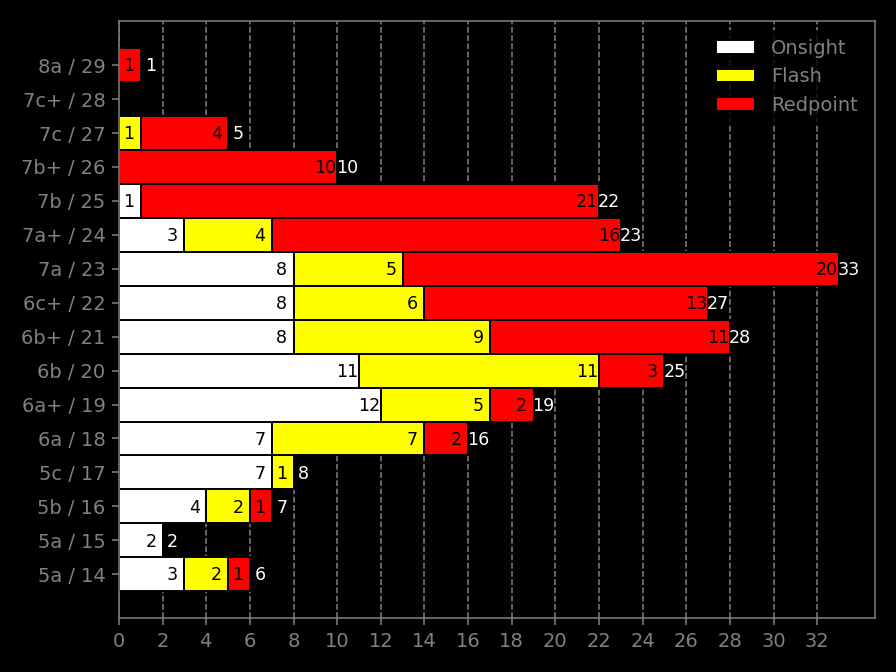
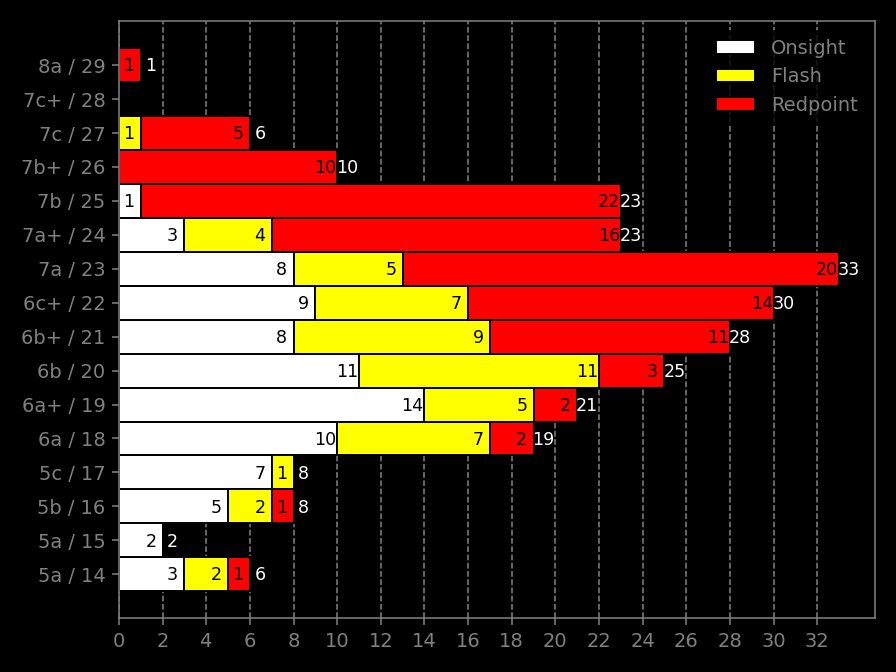
update

diff --git a/log.html b/log.html
@@ -22,19 +22,30 @@
 <h2>Log of sends</h2>
 <table class="sortable">
 <tr><th style="width:5%">date</th><th>crag</th><th>route</th><th style="width:5%">grade</th><th>type</th><th>comment</th></tr>
+<tr><td>06.02.24</td><td>Brummy Crag</td><td>Concentration Campus Sport</td><td>22 -</td><td style='color: white; font-weight: bold;'>o</td><td></td></tr>
+<tr><td>06.02.24</td><td>Brummy Crag</td><td>The Dirty Browny</td><td>19 -</td><td style='color: white; font-weight: bold;'>o</td><td></td></tr>
+<tr><td>06.02.24</td><td>Brummy Crag</td><td>Fist It</td><td>18 -</td><td style='color: white; font-weight: bold;'>o</td><td></td></tr>
+<tr><td>06.02.24</td><td>Brummy Crag</td><td>Eash off Spam</td><td>16 -</td><td style='color: white; font-weight: bold;'>o</td><td></td></tr>
+<tr><td>06.02.24</td><td>Brummy Crag</td><td>Matts Route</td><td>18 -</td><td style='color: white; font-weight: bold;'>o</td><td></td></tr>
+<tr><td>06.02.24</td><td>Al Cove</td><td>The Colonel's Secret</td><td>22 -</td><td style='color: yellow; font-weight: bold;'>f</td><td>Not logged, can't remember if I flashed or onsighted.</td></tr>
+<tr><td>06.02.24</td><td>Al Cove</td><td>Chinese Hospitality</td><td>19 -</td><td style='color: white; font-weight: bold;'>o</td><td></td></tr>
+<tr><td>06.02.24</td><td>Al Cove</td><td>Feral Fodder</td><td>18 -</td><td style='color: white; font-weight: bold;'>o</td><td>Not logged, but had done.</td></tr>
+<tr><td>06.02.24</td><td>Al Cove</td><td>Feroucious Weasel</td><td>22 -</td><td style='color: red; font-weight: bold;'>r</td><td>Not logged, but had done.</td></tr>
+<tr><td>06.02.24</td><td>Al Cove</td><td>Bob the builder</td><td>25 -</td><td style='color: red; font-weight: bold;'>r</td><td>Hard for grade maybe? Was a hard send at least. Crimpy.</td></tr>
+<tr><td>03.02.24</td><td>Al Cap</td><td>Righteous</td><td>27 -</td><td style='color: red; font-weight: bold;'>r</td><td>A lot of tries, maybe 10-15? Got is and it didn't feel too bad in the end. Key was to learn a foot sequence for the lay back section.</td></tr>
 <tr><td>17.01.24</td><td>Pencil Dick</td><td>Reach for the Purple Love Truncheon</td><td>26 -</td><td style='color: red; font-weight: bold;'>r</td><td>Two goes, felt super easy.</td></tr>
-<tr><td>13.01.24</td><td>Pencil Dick</td><td>Take No Prisoners</td><td>22 -</td><td style='color: red; font-weight: bold;'>r</td><td>Two goes, thought it was very hard, then did it easily on second go.</td></tr>
-<tr><td>13.01.24</td><td>Pencil Dick</td><td>Grazon Against Wooly Wullens</td><td>25 -</td><td style='color: red; font-weight: bold;'>r</td><td>Two goes, easy but a hard crux with bad feet.</td></tr>
-<tr><td>13.01.24</td><td>Pencil Dick</td><td>My Little One</td><td>24 -</td><td style='color: white; font-weight: bold;'>o</td><td>Was very happy with this one, felt kind of easy for the grade, but fun.</td></tr>
 <tr><td>13.01.24</td><td>Pencil Dick</td><td>Stick It In</td><td>20 -</td><td style='color: yellow; font-weight: bold;'>f</td><td>Kind of hard little crux up near the top. God jamming training.</td></tr>
-<tr><td>13.01.24</td><td>Pencil Dick</td><td>Botox Viagra</td><td>21 -</td><td style='color: yellow; font-weight: bold;'>f</td><td>Super nice long route.</td></tr>
 <tr><td>13.01.24</td><td>Pencil Dick</td><td>Drop In, Drop Out</td><td>18 -</td><td style='color: yellow; font-weight: bold;'>f</td><td></td></tr>
+<tr><td>13.01.24</td><td>Pencil Dick</td><td>Botox Viagra</td><td>21 -</td><td style='color: yellow; font-weight: bold;'>f</td><td>Super nice long route.</td></tr>
+<tr><td>13.01.24</td><td>Pencil Dick</td><td>My Little One</td><td>24 -</td><td style='color: white; font-weight: bold;'>o</td><td>Was very happy with this one, felt kind of easy for the grade, but fun.</td></tr>
+<tr><td>13.01.24</td><td>Pencil Dick</td><td>Grazon Against Wooly Wullens</td><td>25 -</td><td style='color: red; font-weight: bold;'>r</td><td>Two goes, easy but a hard crux with bad feet.</td></tr>
+<tr><td>13.01.24</td><td>Pencil Dick</td><td>Take No Prisoners</td><td>22 -</td><td style='color: red; font-weight: bold;'>r</td><td>Two goes, thought it was very hard, then did it easily on second go.</td></tr>
 <tr><td>08.01.24</td><td>Firewood Creek</td><td>Pyromaniac</td><td>24 -</td><td style='color: yellow; font-weight: bold;'>f</td><td>No hands knee-bar helped before crux. very chossy. 2nd ascent.</td></tr>
 <tr><td>08.01.24</td><td>Firewood Creek</td><td>Spontaneous combustion</td><td>23 -</td><td style='color: white; font-weight: bold;'>o</td><td>really nice semi trustworthy face climbing</td></tr>
 <tr><td>08.01.24</td><td>Firewood Creek</td><td>Pyromania</td><td>24 -</td><td style='color: yellow; font-weight: bold;'>f</td><td>No hands knee-bar helped before crux. very chossy. 2nd ascent.</td></tr>
 <tr><td>04.01.24</td><td>White Wall</td><td>whiteous</td><td>25 -</td><td style='color: red; font-weight: bold;'>r</td><td>Didn't like the route at all. Had a weird hand jam. Hrad for grade also maybe?</td></tr>
-<tr><td>02.01.24</td><td>Mt Iron</td><td>A sharp prick</td><td>24 -</td><td style='color: red; font-weight: bold;'>r</td><td>Two goes</td></tr>
 <tr><td>02.01.24</td><td>Mt Iron</td><td>Steelworks</td><td>23 -</td><td style='color: red; font-weight: bold;'>r</td><td>Tried once years ago I think. Two goes.</td></tr>
+<tr><td>02.01.24</td><td>Mt Iron</td><td>A sharp prick</td><td>24 -</td><td style='color: red; font-weight: bold;'>r</td><td>Two goes</td></tr>
 <tr><td>31.12.23</td><td>The Office</td><td>The 3-Hour Woman</td><td>26 -</td><td style='color: red; font-weight: bold;'>r</td><td>Maybe 7/8 goes over three days. Very hard on skin. Eventually went more 'direct' at the traverse.</td></tr>
 <tr><td>30.12.23</td><td>White Wall</td><td>Peking Man</td><td>27 -</td><td style='color: red; font-weight: bold;'>r</td><td>4 goes, climbed poorly through a lot of pump.</td></tr>
 <tr><td>21.12.23</td><td>Bannockburn</td><td>Flash in the Pan</td><td>21 -</td><td style='color: yellow; font-weight: bold;'>f</td><td>Nice rock, but not that great climbing.</td></tr>
@@ -49,33 +60,33 @@
 <tr><td>01.12.23</td><td>Boat Ramp</td><td>Unnamed</td><td>11 -</td><td style='color: white; font-weight: bold;'>o</td><td>Seemed like a 16 or so for the first 2m.</td></tr>
 <tr><td>06.11.23</td><td>Wye Creek</td><td>Eat Yourself Fitter</td><td>25 -</td><td style='color: red; font-weight: bold;'>r</td><td>3 goes. You can get tired on this, but not in the fingers.</td></tr>
 <tr><td>01.11.23</td><td>Bannockburn</td><td>JAM</td><td>21 -</td><td style='color: red; font-weight: bold;'>r</td><td>Messed around the crux bit on first go, and broke a foothold.</td></tr>
-<tr><td>28.10.23</td><td>Mt Iron</td><td>The Prickly Lawyer</td><td>20 -</td><td style='color: white; font-weight: bold;'>o</td><td></td></tr>
 <tr><td>28.10.23</td><td>Mt Iron</td><td>Bush Lawyer</td><td>22 -</td><td style='color: yellow; font-weight: bold;'>f</td><td></td></tr>
+<tr><td>28.10.23</td><td>Mt Iron</td><td>The Prickly Lawyer</td><td>20 -</td><td style='color: white; font-weight: bold;'>o</td><td></td></tr>
 <tr><td>25.10.23</td><td>Bannockburn</td><td>Pick and mix</td><td>18 -</td><td style='color: white; font-weight: bold;'>o</td><td>Weird line, I found a harder way through the mantle...</td></tr>
+<tr><td>08.10.23</td><td>Mt Iron</td><td>Sonique</td><td>20 -</td><td style='color: yellow; font-weight: bold;'>f</td><td>Was raining on the slab at the top, lucky it was easy.</td></tr>
 <tr><td>08.10.23</td><td>Mt Iron</td><td>Pitchin and Moaning</td><td>19 -</td><td style='color: white; font-weight: bold;'>o</td><td></td></tr>
 <tr><td>08.10.23</td><td>Mt Iron</td><td>Solid Energy</td><td>24 -</td><td style='color: red; font-weight: bold;'>r</td><td>Two goes. Hard last three or four moves, rather easy to that point.</td></tr>
-<tr><td>08.10.23</td><td>Mt Iron</td><td>Sonique</td><td>20 -</td><td style='color: yellow; font-weight: bold;'>f</td><td>Was raining on the slab at the top, lucky it was easy.</td></tr>
-<tr><td>07.10.23</td><td>Sunnyside</td><td>Shark Chirac</td><td>22 -</td><td style='color: red; font-weight: bold;'>r</td><td>Stuffed up the first bolt. Got second go, but was quite hard (I think).</td></tr>
 <tr><td>07.10.23</td><td>Sunnyside</td><td>Sisters of Mercy</td><td>22 -</td><td style='color: yellow; font-weight: bold;'>f</td><td></td></tr>
 <tr><td>07.10.23</td><td>Sunnyside</td><td>Where's the goddamned drill</td><td>18 -</td><td style='color: white; font-weight: bold;'>o</td><td></td></tr>
 <tr><td>07.10.23</td><td>Sunnyside</td><td>All that remains</td><td>24 -</td><td style='color: red; font-weight: bold;'>r</td><td>Two goes today, but tried it twice a few years back.</td></tr>
+<tr><td>07.10.23</td><td>Sunnyside</td><td>Shark Chirac</td><td>22 -</td><td style='color: red; font-weight: bold;'>r</td><td>Stuffed up the first bolt. Got second go, but was quite hard (I think).</td></tr>
 <tr><td>01.10.23</td><td>Long Beach</td><td>Never Enough Left variant</td><td>23 -</td><td style='color: red; font-weight: bold;'>r</td><td>Climbed the route, but used the arete.</td></tr>
-<tr><td>26.09.23</td><td>Long Beach</td><td>Pecking Order</td><td>17 -</td><td style='color: white; font-weight: bold;'>o</td><td>Avian Wall day out with Alexandra. Scary rock quality.</td></tr>
+<tr><td>26.09.23</td><td>Long Beach</td><td>Pheonix Rising</td><td>18 -</td><td style='color: yellow; font-weight: bold;'>f</td><td></td></tr>
+<tr><td>26.09.23</td><td>Long Beach</td><td>Fly My Pretties</td><td>20 -</td><td style='color: white; font-weight: bold;'>o</td><td>Horribly sandy start</td></tr>
+<tr><td>26.09.23</td><td>Long Beach</td><td>Rosella</td><td>19 -</td><td style='color: white; font-weight: bold;'>o</td><td>Pretty decent route</td></tr>
 <tr><td>26.09.23</td><td>Long Beach</td><td>Great Ape</td><td>18 -</td><td style='color: white; font-weight: bold;'>o</td><td>Better version of Seacliff</td></tr>
 <tr><td>26.09.23</td><td>Long Beach</td><td>Seacliff</td><td>17 -</td><td style='color: white; font-weight: bold;'>o</td><td></td></tr>
 <tr><td>26.09.23</td><td>Long Beach</td><td>Layer Cake</td><td>19 -</td><td style='color: white; font-weight: bold;'>o</td><td>OK route.</td></tr>
-<tr><td>26.09.23</td><td>Long Beach</td><td>Rosella</td><td>19 -</td><td style='color: white; font-weight: bold;'>o</td><td>Pretty decent route</td></tr>
-<tr><td>26.09.23</td><td>Long Beach</td><td>Fly My Pretties</td><td>20 -</td><td style='color: white; font-weight: bold;'>o</td><td>Horribly sandy start</td></tr>
-<tr><td>26.09.23</td><td>Long Beach</td><td>Pheonix Rising</td><td>18 -</td><td style='color: yellow; font-weight: bold;'>f</td><td></td></tr>
+<tr><td>26.09.23</td><td>Long Beach</td><td>Pecking Order</td><td>17 -</td><td style='color: white; font-weight: bold;'>o</td><td>Avian Wall day out with Alexandra. Scary rock quality.</td></tr>
 <tr><td>25.09.23</td><td>Long Beach</td><td>Maybe</td><td>20 -</td><td style='color: red; font-weight: bold;'>r</td><td>Pinnacle. Two goes... slipped with cold hands and feet. But an interesting short route. Well worth the climb.</td></tr>
 <tr><td>16.09.23</td><td>Long Beach</td><td>Unknown to left</td><td>23 -</td><td style='color: yellow; font-weight: bold;'>f</td><td>Bolt city. Short nice route behind LoL.</td></tr>
-<tr><td>21.05.23</td><td>High Side</td><td>Daydreams & Fantasies</td><td>23 -</td><td style='color: white; font-weight: bold;'>o</td><td>Superb climbing that seemed to reward good climbing.</td></tr>
 <tr><td>21.05.23</td><td>High Side</td><td>Emoticon</td><td>23 -</td><td style='color: white; font-weight: bold;'>o</td><td>Soft, just one or two hard moves in the obviously harder spot.</td></tr>
-<tr><td>13.05.23</td><td>Long Beach</td><td>Givin</td><td>17 -</td><td style='color: white; font-weight: bold;'>o</td><td>Avian wall. Stupidly early.</td></tr>
-<tr><td>13.05.23</td><td>Long Beach</td><td>Aretic Vulture</td><td>21 -</td><td style='color: yellow; font-weight: bold;'>f</td><td>Avian wall. One of the nicer climbs here.</td></tr>
+<tr><td>21.05.23</td><td>High Side</td><td>Daydreams & Fantasies</td><td>23 -</td><td style='color: white; font-weight: bold;'>o</td><td>Superb climbing that seemed to reward good climbing.</td></tr>
 <tr><td>13.05.23</td><td>Long Beach</td><td>Cut in Black</td><td>20 -</td><td style='color: white; font-weight: bold;'>o</td><td>Avian wall.</td></tr>
-<tr><td>13.05.23</td><td>Long Beach</td><td>Humanure</td><td>23 -</td><td style='color: red; font-weight: bold;'>r</td><td>Avian wall. 2 goes, Kind of a hard 1 move crux for a 23.</td></tr>
 <tr><td>13.05.23</td><td>Long Beach</td><td>Givealittle</td><td>26 -</td><td style='color: red; font-weight: bold;'>r</td><td>Avian wall. 2 goes, soft, not that nice a route, but still some interesting moves. Knee bar near top.</td></tr>
+<tr><td>13.05.23</td><td>Long Beach</td><td>Humanure</td><td>23 -</td><td style='color: red; font-weight: bold;'>r</td><td>Avian wall. 2 goes, Kind of a hard 1 move crux for a 23.</td></tr>
+<tr><td>13.05.23</td><td>Long Beach</td><td>Aretic Vulture</td><td>21 -</td><td style='color: yellow; font-weight: bold;'>f</td><td>Avian wall. One of the nicer climbs here.</td></tr>
+<tr><td>13.05.23</td><td>Long Beach</td><td>Givin</td><td>17 -</td><td style='color: white; font-weight: bold;'>o</td><td>Avian wall. Stupidly early.</td></tr>
 <tr><td>07.05.23</td><td>Long Beach</td><td>Jeremys Route</td><td>26 -</td><td style='color: red; font-weight: bold;'>r</td><td>Bolt city. 3 goes. Got "palm up" beta at second crux which helped. This is 27 in some books, and there is a 24 variant.</td></tr>
 <tr><td>07.05.23</td><td>Long Beach</td><td>Labours of Love</td><td>24 -</td><td style='color: red; font-weight: bold;'>r</td><td>Bolt city. 4 goes over 4 years.</td></tr>
 <tr><td>07.05.23</td><td>Long Beach</td><td>Crime and Punishment</td><td>22 -</td><td style='color: yellow; font-weight: bold;'>f</td><td>Actually a red point, flashed it on a forgotten date a couple months back, just a repeat todayl</td></tr>
@@ -98,13 +109,13 @@
 <tr><td>26.03.23</td><td>Whale Watching</td><td>Hobo Humping Slobo Babe</td><td>23 -</td><td style='color: red; font-weight: bold;'>r</td><td>Second go. Just one hard move that I failed on the first go.</td></tr>
 <tr><td>26.03.23</td><td>Whale Watching</td><td>Moby Dick</td><td>25 -</td><td style='color: red; font-weight: bold;'>r</td><td>Second go. Quite a nice climb.</td></tr>
 <tr><td>26.03.23</td><td>Whale Watching</td><td>10 Boy Scouts</td><td>24 -</td><td style='color: white; font-weight: bold;'>o</td><td>Thought it was an 18, did it as a warm up. Got warm.</td></tr>
+<tr><td>22.03.23</td><td>Bannockburn</td><td>A Shade of Afternoon Arete</td><td>19 -</td><td style='color: red; font-weight: bold;'>r</td><td>Had worked TRS one day. Actually quite a nice climb.</td></tr>
 <tr><td>22.03.23</td><td>Bannockburn</td><td>Its Business Thyme</td><td>19 -</td><td style='color: white; font-weight: bold;'>o</td><td>Was worried about the choss</td></tr>
 <tr><td>22.03.23</td><td>Bannockburn</td><td>A Thyme to Remember</td><td>22 -</td><td style='color: white; font-weight: bold;'>o</td><td>Not that chossy actually</td></tr>
-<tr><td>22.03.23</td><td>Bannockburn</td><td>A Shade of Afternoon Arete</td><td>19 -</td><td style='color: red; font-weight: bold;'>r</td><td>Had worked TRS one day. Actually quite a nice climb.</td></tr>
 <tr><td>15.03.23</td><td>Bannockburn</td><td>Bogan to the Bone</td><td>16 -</td><td style='color: white; font-weight: bold;'>o</td><td></td></tr>
 <tr><td>15.03.23</td><td>Bannockburn</td><td>Sands of Thyme</td><td>24 -</td><td style='color: red; font-weight: bold;'>r</td><td>Took 4 attemps over 2 days. A lot of beta to get confused about. Big move right at the 4th.</td></tr>
-<tr><td>10.03.23</td><td>Mt Iron</td><td>Mine, Mine, Mine</td><td>25 -</td><td style='color: red; font-weight: bold;'>r</td><td>Two goes. Quite soft I thought. Slightly more endurance based that it seems, and no super hard moves.</td></tr>
 <tr><td>10.03.23</td><td>Mt Iron</td><td>The Bastard from Gunn Rd</td><td>24 -</td><td style='color: red; font-weight: bold;'>r</td><td>Two goes, did the 'proper' line and and to skip a lot of chalked holds and use other little sidepulls.</td></tr>
+<tr><td>10.03.23</td><td>Mt Iron</td><td>Mine, Mine, Mine</td><td>25 -</td><td style='color: red; font-weight: bold;'>r</td><td>Two goes. Quite soft I thought. Slightly more endurance based that it seems, and no super hard moves.</td></tr>
 <tr><td>08.03.23</td><td>Bannockburn</td><td>No Excuses</td><td>22 -</td><td style='color: white; font-weight: bold;'>o</td><td>Maybe the nicest climb of the crag. Had to wait on it, while another guy climbed the route beside.</td></tr>
 <tr><td>07.03.23</td><td>Mt Iron</td><td>Right Bastard</td><td>26 -</td><td style='color: red; font-weight: bold;'>r</td><td>Worked this for three sessions. A bad fall early on may have scarred me a little on it.</td></tr>
 <tr><td>05.03.23</td><td>Bannockburn</td><td>Chain gang</td><td>15 -</td><td style='color: white; font-weight: bold;'>o</td><td>Approx date.</td></tr>
@@ -112,10 +123,10 @@
 <tr><td>05.03.23</td><td>Bannockburn</td><td>Heart of the Desert</td><td>17 -</td><td style='color: white; font-weight: bold;'>o</td><td></td></tr>
 <tr><td>03.03.23</td><td>Riverside</td><td>Zoot Alors</td><td>24 -</td><td style='color: red; font-weight: bold;'>r</td><td>Had one attemp about a month back. Maybe soft, but a super nice route.</td></tr>
 <tr><td>03.03.23</td><td>Riverside</td><td>The Engorger</td><td>24 -</td><td style='color: yellow; font-weight: bold;'>f</td><td>Nice route, probably soft, one harder move as you go over the bulge.</td></tr>
+<tr><td>26.02.23</td><td>Hotline Corner</td><td>Penance</td><td>21 -</td><td style='color: yellow; font-weight: bold;'>f</td><td>Was happy to flash this good-ish line, and was basically an onsight (had seen someone on it).</td></tr>
+<tr><td>26.02.23</td><td>Hotline Corner</td><td>Fuckity fuck fuck</td><td>19 -</td><td style='color: white; font-weight: bold;'>o</td><td>Beaufitul line, certain a three star</td></tr>
 <tr><td>26.02.23</td><td>Hotline Corner</td><td>Hey George</td><td>20 -</td><td style='color: white; font-weight: bold;'>o</td><td>A crux the very soft first pitch (which is 18).</td></tr>
 <tr><td>26.02.23</td><td>Hotline Corner</td><td>Big & Chossy Bedroom Sossy</td><td>18 -</td><td style='color: yellow; font-weight: bold;'>f</td><td></td></tr>
-<tr><td>26.02.23</td><td>Hotline Corner</td><td>Fuckity fuck fuck</td><td>19 -</td><td style='color: white; font-weight: bold;'>o</td><td>Beaufitul line, certain a three star</td></tr>
-<tr><td>26.02.23</td><td>Hotline Corner</td><td>Penance</td><td>21 -</td><td style='color: yellow; font-weight: bold;'>f</td><td>Was happy to flash this good-ish line, and was basically an onsight (had seen someone on it).</td></tr>
 <tr><td>25.02.23</td><td>Rumour Mill</td><td>Two stroke</td><td>15 -</td><td style='color: white; font-weight: bold;'>o</td><td></td></tr>
 <tr><td>25.02.23</td><td>Rumour Mill</td><td>Muzzas</td><td>22 -</td><td style='color: white; font-weight: bold;'>o</td><td></td></tr>
 <tr><td>25.02.23</td><td>Rumour Mill</td><td>After bush</td><td>18 -</td><td style='color: white; font-weight: bold;'>o</td><td></td></tr>
@@ -125,21 +136,21 @@
 <tr><td>15.01.23</td><td>The Office</td><td>Flake News</td><td>22 -</td><td style='color: white; font-weight: bold;'>o</td><td>Approx date.</td></tr>
 <tr><td>15.01.23</td><td>Falcon Steep</td><td>Falcon Steep</td><td>22 -</td><td style='color: white; font-weight: bold;'>o</td><td>Approx date. Was a great climb, kind of sequency at the start, lovely second half.</td></tr>
 <tr><td>15.01.23</td><td>Falcon Steep</td><td>Cougar Corner</td><td>17 -</td><td style='color: white; font-weight: bold;'>o</td><td>Approx date.</td></tr>
-<tr><td>13.01.23</td><td>Farside</td><td>Jock the Frotterer</td><td>19 -</td><td style='color: white; font-weight: bold;'>o</td><td></td></tr>
-<tr><td>13.01.23</td><td>Farside</td><td>Chairman Ed</td><td>17 -</td><td style='color: white; font-weight: bold;'>o</td><td></td></tr>
-<tr><td>13.01.23</td><td>Farside</td><td>In Flagrante Delecto</td><td>19 -</td><td style='color: white; font-weight: bold;'>o</td><td></td></tr>
-<tr><td>13.01.23</td><td>Farside</td><td>Unknown 23 beside bogans</td><td>23 -</td><td style='color: red; font-weight: bold;'>r</td><td></td></tr>
 <tr><td>13.01.23</td><td>Farside</td><td>Bogans</td><td>17 -</td><td style='color: yellow; font-weight: bold;'>f</td><td></td></tr>
+<tr><td>13.01.23</td><td>Farside</td><td>Unknown 23 beside bogans</td><td>23 -</td><td style='color: red; font-weight: bold;'>r</td><td></td></tr>
+<tr><td>13.01.23</td><td>Farside</td><td>Jock the Frotterer</td><td>19 -</td><td style='color: white; font-weight: bold;'>o</td><td></td></tr>
+<tr><td>13.01.23</td><td>Farside</td><td>In Flagrante Delecto</td><td>19 -</td><td style='color: white; font-weight: bold;'>o</td><td></td></tr>
+<tr><td>13.01.23</td><td>Farside</td><td>Chairman Ed</td><td>17 -</td><td style='color: white; font-weight: bold;'>o</td><td></td></tr>
 <tr><td>12.01.23</td><td>Mt Iron</td><td>Waking up the Missus</td><td>20 -</td><td style='color: white; font-weight: bold;'>o</td><td></td></tr>
 <tr><td>09.01.23</td><td>Riverside</td><td>Jack Be Nimble</td><td>23 -</td><td style='color: white; font-weight: bold;'>o</td><td>Very soft</td></tr>
 <tr><td>07.01.23</td><td>Mt Iron</td><td>Irony</td><td>25 -</td><td style='color: red; font-weight: bold;'>r</td><td>Bouldery, third go.</td></tr>
 <tr><td>07.01.23</td><td>Mt Iron</td><td>Iron Maiden</td><td>22 -</td><td style='color: yellow; font-weight: bold;'>f</td><td></td></tr>
 <tr><td>07.01.23</td><td>Mt Iron</td><td>Out there on the edge</td><td>20 -</td><td style='color: yellow; font-weight: bold;'>f</td><td></td></tr>
-<tr><td>30.09.22</td><td>Storvika</td><td>Unnamed</td><td>21 (6b+)</td><td style='color: white; font-weight: bold;'>o</td><td>Soft</td></tr>
 <tr><td>30.09.22</td><td>Storvika</td><td>Gompi</td><td>22 (6c)</td><td style='color: red; font-weight: bold;'>r</td><td>Flashed it almost a year ago with broken toe, but didn't log</td></tr>
-<tr><td>30.09.22</td><td>Storvika</td><td>Closed project</td><td>20 (6b)</td><td style='color: red; font-weight: bold;'>r</td><td>Flashed it almost a year ago with broken toe.</td></tr>
 <tr><td>30.09.22</td><td>Storvika</td><td>Høyrevridd propaganda</td><td>16 (5+)</td><td style='color: white; font-weight: bold;'>o</td><td>Really poor rock quality.</td></tr>
+<tr><td>30.09.22</td><td>Storvika</td><td>Closed project</td><td>20 (6b)</td><td style='color: red; font-weight: bold;'>r</td><td>Flashed it almost a year ago with broken toe.</td></tr>
 <tr><td>30.09.22</td><td>Storvika</td><td>Unnamed</td><td>19 (6a+)</td><td style='color: white; font-weight: bold;'>o</td><td></td></tr>
+<tr><td>30.09.22</td><td>Storvika</td><td>Unnamed</td><td>21 (6b+)</td><td style='color: white; font-weight: bold;'>o</td><td>Soft</td></tr>
 <tr><td>10.09.22</td><td>Flatanger</td><td>Hans</td><td>25 (7b)</td><td style='color: red; font-weight: bold;'>r</td><td>Soft. Two goes, very top is technical/trust your feet. Pretty easy when you know whats up. Topped out.</td></tr>
 <tr><td>23.08.22</td><td>Hell</td><td>Butthole surfer</td><td>21 (6b+)</td><td style='color: red; font-weight: bold;'>r</td><td>Quite cruxy, and not really a noteworthy climb.</td></tr>
 <tr><td>21.08.22</td><td>Hell</td><td>Raakkenraall</td><td>25 (7b)</td><td style='color: red; font-weight: bold;'>r</td><td>One quite hard move.</td></tr>
@@ -158,8 +169,8 @@
 <tr><td>02.07.22</td><td>Flatanger</td><td>Kykkeli</td><td>25 (7b)</td><td style='color: red; font-weight: bold;'>r</td><td>Did it on a warm up, easy when dry (with good beta)</td></tr>
 <tr><td>02.07.22</td><td>Flatanger</td><td>Ukjent</td><td>21 (6b+)</td><td style='color: white; font-weight: bold;'>o</td><td>I heard it was 6b, either grade could be correct.</td></tr>
 <tr><td>09.06.22</td><td>Hell</td><td>Klassikeren</td><td>25 (7b)</td><td style='color: red; font-weight: bold;'>r</td><td>Tried this on occasion over multiple years but got injured on it so never took it too serious. Went pretty easy in the end.</td></tr>
-<tr><td>06.06.22</td><td>Ishoel</td><td>Action direct</td><td>16 (5+)</td><td style='color: red; font-weight: bold;'>r</td><td></td></tr>
 <tr><td>06.06.22</td><td>Ishoel</td><td>Naadelos som Cola</td><td>20 (6b)</td><td style='color: yellow; font-weight: bold;'>f</td><td></td></tr>
+<tr><td>06.06.22</td><td>Ishoel</td><td>Action direct</td><td>16 (5+)</td><td style='color: red; font-weight: bold;'>r</td><td></td></tr>
 <tr><td>05.06.22</td><td>Ishoel</td><td>Lumbago</td><td>25 (7b)</td><td style='color: red; font-weight: bold;'>r</td><td>~6 attempts over two days. Just a boulder problem.</td></tr>
 <tr><td>05.06.22</td><td>Ishoel</td><td>Malaria</td><td>21 (6b+)</td><td style='color: red; font-weight: bold;'>r</td><td>Had onsighted it the year before.</td></tr>
 <tr><td>05.06.22</td><td>Ishoel</td><td>Lommerusk</td><td>20 (6b)</td><td style='color: yellow; font-weight: bold;'>f</td><td>Was told I used holds not on the route.</td></tr>
@@ -168,14 +179,14 @@
 <tr><td>19.03.22</td><td>Kongeveggen</td><td>Magnus Berrfott</td><td>18 (6a)</td><td style='color: yellow; font-weight: bold;'>f</td><td></td></tr>
 <tr><td>19.03.22</td><td>Kongeveggen</td><td>Kong Olavs men</td><td>21 (6b+)</td><td style='color: yellow; font-weight: bold;'>f</td><td></td></tr>
 <tr><td>19.03.22</td><td>Kongeveggen</td><td>Cleopatra av Egypt</td><td>22 (6c+)</td><td style='color: yellow; font-weight: bold;'>f</td><td></td></tr>
-<tr><td>14.03.22</td><td>Harbak</td><td>Hvalfarten</td><td>0 (B5)</td><td style='color: red; font-weight: bold;'>r</td><td></td></tr>
-<tr><td>14.03.22</td><td>Harbak</td><td>Krokkofant</td><td>0 (B6A+)</td><td style='color: red; font-weight: bold;'>r</td><td></td></tr>
-<tr><td>14.03.22</td><td>Harbak</td><td>Elledille</td><td>0 (B6B+)</td><td style='color: red; font-weight: bold;'>r</td><td></td></tr>
 <tr><td>14.03.22</td><td>Harbak</td><td>Hvalen</td><td>0 (B5)</td><td style='color: red; font-weight: bold;'>r</td><td></td></tr>
+<tr><td>14.03.22</td><td>Harbak</td><td>Hvalfarten</td><td>0 (B5)</td><td style='color: red; font-weight: bold;'>r</td><td></td></tr>
+<tr><td>14.03.22</td><td>Harbak</td><td>Elledille</td><td>0 (B6B+)</td><td style='color: red; font-weight: bold;'>r</td><td></td></tr>
+<tr><td>14.03.22</td><td>Harbak</td><td>Krokkofant</td><td>0 (B6A+)</td><td style='color: red; font-weight: bold;'>r</td><td></td></tr>
+<tr><td>20.11.21</td><td>Olympic Wall</td><td>Hogo frogo</td><td>27 (7c)</td><td style='color: yellow; font-weight: bold;'>f</td><td>Got great beta help for the upper crux.</td></tr>
+<tr><td>20.11.21</td><td>Olympic Wall</td><td>Tornado lou</td><td>25 (7b)</td><td style='color: red; font-weight: bold;'>r</td><td>Fucked up the sequence at the top, and too thin to climb back, so just to push through. Got it second go.</td></tr>
 <tr><td>20.11.21</td><td>Olympic Wall</td><td>Kalyty</td><td>25 (7b)</td><td style='color: white; font-weight: bold;'>o</td><td>c. 7a. veyr soft</td></tr>
 <tr><td>20.11.21</td><td>Olympic Wall</td><td>Biloute</td><td>23 (7a)</td><td style='color: white; font-weight: bold;'>o</td><td></td></tr>
-<tr><td>20.11.21</td><td>Olympic Wall</td><td>Tornado lou</td><td>25 (7b)</td><td style='color: red; font-weight: bold;'>r</td><td>Fucked up the sequence at the top, and too thin to climb back, so just to push through. Got it second go.</td></tr>
-<tr><td>20.11.21</td><td>Olympic Wall</td><td>Hogo frogo</td><td>27 (7c)</td><td style='color: yellow; font-weight: bold;'>f</td><td>Got great beta help for the upper crux.</td></tr>
 <tr><td>19.11.21</td><td>Masouri Skyline</td><td>Aphrodite</td><td>24 (7a+)</td><td style='color: yellow; font-weight: bold;'>f</td><td></td></tr>
 <tr><td>19.11.21</td><td>Masouri Skyline</td><td>Ivi</td><td>24 (7a+)</td><td style='color: white; font-weight: bold;'>o</td><td>I climbed well, but it wasn't as hard as the grade</td></tr>
 <tr><td>19.11.21</td><td>Masouri Skyline</td><td>Monahiki elia</td><td>19 (6a+)</td><td style='color: yellow; font-weight: bold;'>f</td><td></td></tr>
@@ -199,9 +210,9 @@
 <tr><td>27.06.21</td><td>Flatanger</td><td>Beondeanger</td><td>27 (7c)</td><td style='color: red; font-weight: bold;'>r</td><td>Another stunner. 8/9 attempts. Just keeps being hard at the top. Required a bunch of extended draws (for clipping).</td></tr>
 <tr><td>12.06.21</td><td>Flatanger</td><td>Eventyrblanding</td><td>27 (7c)</td><td style='color: red; font-weight: bold;'>r</td><td>Amazing. First 7c. 5 attempts, but beta helped and just climbed well on send go.</td></tr>
 <tr><td>30.05.21</td><td>Flatanger</td><td>Syvsover</td><td>25 (7b)</td><td style='color: red; font-weight: bold;'>r</td><td>Three star. 5 or 6 attempst to do. Super nice line. Lots of resting on locks.</td></tr>
-<tr><td>24.05.21</td><td>Ekne</td><td>Rigor mortis</td><td>21 (6b+)</td><td style='color: white; font-weight: bold;'>o</td><td></td></tr>
-<tr><td>24.05.21</td><td>Ekne</td><td>Crispy</td><td>19 (6a+)</td><td style='color: white; font-weight: bold;'>o</td><td></td></tr>
 <tr><td>24.05.21</td><td>Ekne</td><td>Nemi</td><td>23 (7a)</td><td style='color: red; font-weight: bold;'>r</td><td>Three star route</td></tr>
+<tr><td>24.05.21</td><td>Ekne</td><td>Crispy</td><td>19 (6a+)</td><td style='color: white; font-weight: bold;'>o</td><td></td></tr>
+<tr><td>24.05.21</td><td>Ekne</td><td>Rigor mortis</td><td>21 (6b+)</td><td style='color: white; font-weight: bold;'>o</td><td></td></tr>
 <tr><td>11.08.20</td><td>Hell</td><td>La oss skyte 5 bjorne</td><td>26 (7b+)</td><td style='color: red; font-weight: bold;'>r</td><td>First 7b+. 9 goes. Suits me probably, strait forward beta.</td></tr>
 <tr><td>31.07.20</td><td>Hell</td><td>Bjornemote</td><td>25 (7b)</td><td style='color: red; font-weight: bold;'>r</td><td>Took quite a few attempts and knowing hand and feet beta for at least half the route.</td></tr>
 <tr><td>25.07.20</td><td>Kvam</td><td>Thor line</td><td>24 (7a+)</td><td style='color: red; font-weight: bold;'>r</td><td>Norwegian 8-, didn in 4 goes on first send attempt.</td></tr>
@@ -222,10 +233,10 @@
 <tr><td>20.08.18</td><td>Britten crag</td><td>Disco logic</td><td>23 -</td><td style='color: red; font-weight: bold;'>r</td><td>Soft</td></tr>
 <tr><td>20.08.18</td><td>Britten crag</td><td>U haul</td><td>21 -</td><td style='color: red; font-weight: bold;'>r</td><td></td></tr>
 <tr><td>19.08.18</td><td>Britten crag</td><td>Wave of mutilation</td><td>22 -</td><td style='color: red; font-weight: bold;'>r</td><td></td></tr>
-<tr><td>02.07.18</td><td>Hell</td><td>Go to hell</td><td>23 (7a)</td><td style='color: red; font-weight: bold;'>r</td><td></td></tr>
 <tr><td>02.07.18</td><td>Hell</td><td>Studie i gront</td><td>22 (6c)</td><td style='color: red; font-weight: bold;'>r</td><td>Found very hard, maybe 6 attempts</td></tr>
-<tr><td>01.07.18</td><td>Ekne</td><td>Hunden fra baskerville</td><td>19 (6a+)</td><td style='color: white; font-weight: bold;'>o</td><td>Excellent maybe Norwegian 7 extension</td></tr>
+<tr><td>02.07.18</td><td>Hell</td><td>Go to hell</td><td>23 (7a)</td><td style='color: red; font-weight: bold;'>r</td><td></td></tr>
 <tr><td>01.07.18</td><td>Ekne</td><td>Syver</td><td>21 (6b+)</td><td style='color: red; font-weight: bold;'>r</td><td>Beautiful line</td></tr>
+<tr><td>01.07.18</td><td>Ekne</td><td>Hunden fra baskerville</td><td>19 (6a+)</td><td style='color: white; font-weight: bold;'>o</td><td>Excellent maybe Norwegian 7 extension</td></tr>
 <tr><td>20.05.18</td><td>Beachen</td><td>Christiania</td><td>18 (6a)</td><td style='color: yellow; font-weight: bold;'>f</td><td>Soft</td></tr>
 <tr><td>19.05.18</td><td>Beachen</td><td>Whiskeykongen</td><td>20 (6b)</td><td style='color: yellow; font-weight: bold;'>f</td><td></td></tr>
 <tr><td>19.05.18</td><td>Beachen</td><td>Aphelium</td><td>20 (6b)</td><td style='color: yellow; font-weight: bold;'>f</td><td>Top is worth the stupid crux at the start</td></tr>
